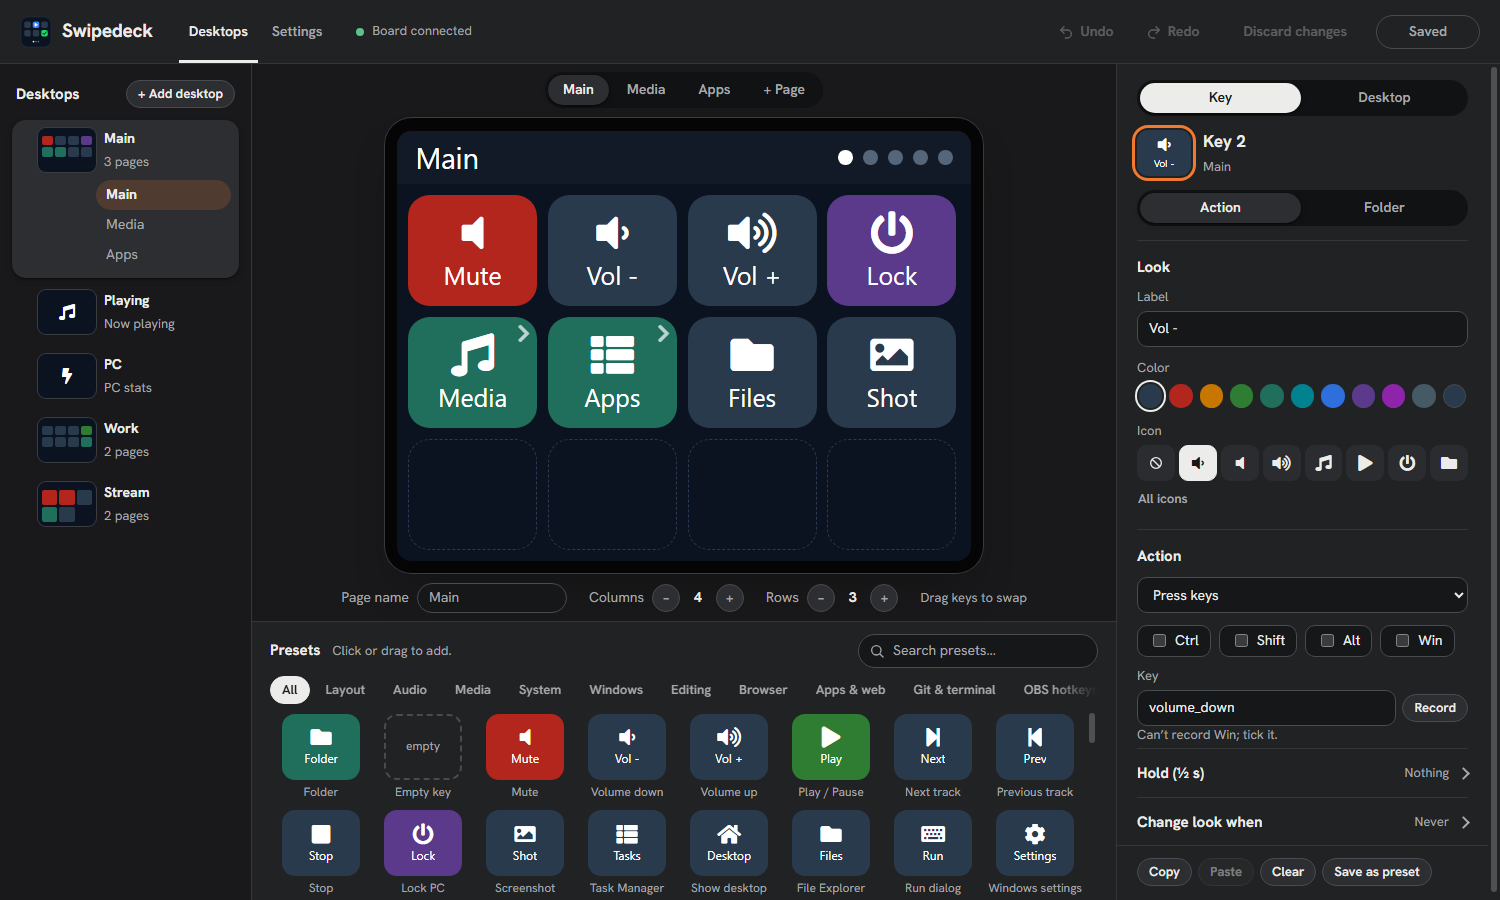
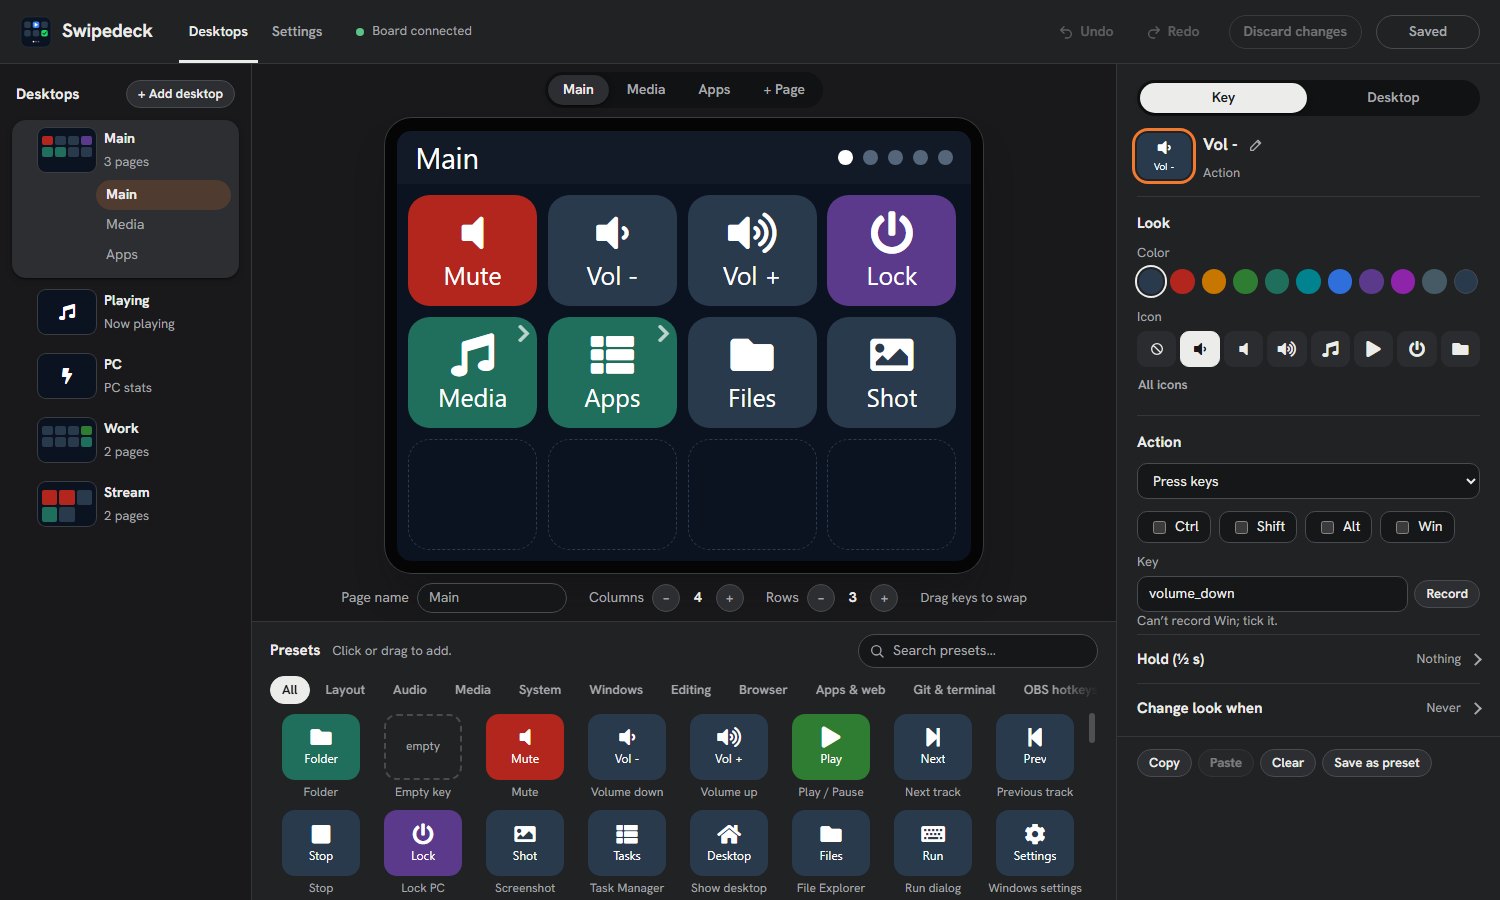
Editor: a simpler key panel and an outlined Discard changes
The panel is headed by the key's name with a pencil to change it, and Action or Folder under it. The key number, page name, label field and the Action / Folder switch are gone; an empty key offers Add action and Add folder.

diff --git a/companion/streamdeck_companion/web/app.js b/companion/streamdeck_companion/web/app.js
@@ -35,7 +35,7 @@ const UI_ICONS = {
   undo: 'M9 14 4 9l5-5M4 9h10a6 6 0 0 1 0 12h-3', redo: 'M15 14l5-5-5-5M20 9H10a6 6 0 0 0 0 12h3',
   up: 'M6 14l6-6 6 6', down: 'M6 10l6 6 6-6', close: 'M6 6l12 12M18 6 6 18',
   trash: 'M4 7h16M10 11v6M14 11v6M6 7l1 13h10l1-13M9 7V4h6v3', search: 'M11 4a7 7 0 1 0 0 14 7 7 0 0 0 0-14zM16.5 16.5 21 21',
-  grip: 'M9 6h.01M15 6h.01M9 12h.01M15 12h.01M9 18h.01M15 18h.01', none: 'M12 4a8 8 0 1 0 0 16 8 8 0 0 0 0-16zM6.3 6.3l11.4 11.4',
+  grip: 'M9 6h.01M15 6h.01M9 12h.01M15 12h.01M9 18h.01M15 18h.01', edit: 'M4 20h4L19 9l-4-4L4 16zM13.5 6.5l4 4', none: 'M12 4a8 8 0 1 0 0 16 8 8 0 0 0 0-16zM6.3 6.3l11.4 11.4',
 };
 function svg(name) {
   const NS = 'http://www.w3.org/2000/svg';
@@ -298,7 +298,7 @@ function renderTopbar() {
     h('div', { class: 'history' },
       h('button', { class: 'quiet', onclick: undo, disabled: !history.canUndo, title: 'Undo (Ctrl+Z)' }, svg('undo'), 'Undo'),
       h('button', { class: 'quiet', onclick: redo, disabled: !history.canRedo, title: 'Redo (Ctrl+Y)' }, svg('redo'), 'Redo')),
-    h('button', { class: 'quiet', onclick: revert, disabled: !isDirty() }, 'Discard changes'),
+    h('button', { class: 'discard', onclick: revert, disabled: !isDirty() }, 'Discard changes'),
     h('button', { class: 'primary', onclick: save, disabled: !isDirty() || state.saving, title: 'Save (Ctrl+S)' },
       isDirty() ? 'Save' : 'Saved'),
   );
@@ -986,23 +986,57 @@ function desktopForm(d) {
     'Names from Task Manager > Details, without .exe.'));
 }
 
+// The top of the key panel: a picture of the key, its name with a pencil to change it, and what kind of key it is.
+function keyHead(k) {
+  const kind = M.keyKind(k);
+  const info = h('div', { class: 'keyname' });
+  const head = h('div', { class: 'keyhead' }, miniKey(k), info);
+  const nameLine = () => h('div', { class: 'nameline' },
+    h('h4', { class: k.label || kind === 'empty' ? '' : 'none' }, kind === 'empty' ? 'Empty key' : k.label || 'No label'),
+    kind === 'empty' ? null : h('button', { class: 'icon', id: 'editName', title: 'Edit label', 'aria-label': 'Edit label', onclick: () => edit() }, svg('edit')));
+  const warning = () => (M.boardCannotShow(k.label) ? h('div', { class: 'hint bad accents' }, 'The board can\u2019t show accents or emoji.') : null);
+  const show = () => {
+    info.replaceChildren(...[nameLine(), kind === 'empty' ? null : h('div', { class: 'sub' }, kind === 'folder' ? 'Folder' : 'Action'), warning()].filter(Boolean));
+  };
+  // The name turns into a box: Enter or leaving it keeps what was typed (already shown on the board), Escape takes it back.
+  const edit = () => {
+    const before = deckText(), steps = history.past.length;
+    let done = false;
+    const box = boardText(k.label || '', (v) => liveEdit(() => { const key = page().keys[state.sel.k]; if (v) key.label = v; else delete key.label; }, 'label'),
+      { maxLength: 10, id: 'keyName', 'aria-label': 'Label' });
+    const input = box.querySelector('input');
+    const finish = (keep) => {
+      if (done) return;
+      done = true;
+      if (!keep && deckText() !== before) { history.past.length = steps; restore(before); return; }
+      show(); // only the head is redrawn: a click that took the focus away still lands on its button
+      head.querySelector('.mini').replaceWith(miniKey(k));
+    };
+    input.addEventListener('keydown', (e) => { if (e.key === 'Enter') finish(true); else if (e.key === 'Escape') finish(false); });
+    input.addEventListener('blur', () => finish(true));
+    input.addEventListener('input', () => head.querySelector('.mini').replaceWith(miniKey(k))); // the little picture follows
+    info.querySelectorAll(':scope > .accents').forEach((el) => el.remove());
+    info.querySelector('.nameline').replaceWith(box);
+    input.focus();
+    input.select();
+  };
+  show();
+  return head;
+}
+
 // The selected key: what it looks like and what it does; the less used parts fold away.
 function keyPanel() {
   const k = keyObj();
   if (state.sel.k === null) return [h('div', { class: 'emptypanel' }, 'Click a key to edit it.')];
   const kk = M.keyKind(k);
-  const parts = [
-    h('div', { class: 'keyhead' }, miniKey(k), h('div', {}, h('h4', {}, `Key ${state.sel.k + 1}`),
-      h('div', { class: 'sub' }, M.pageName(desk(), page())))),
-    h('div', { class: 'seg' }, [['action', 'Action'], ['folder', 'Folder']].map(([v, t]) =>
-      h('button', { class: kk === v ? 'on' : '', 'aria-pressed': String(kk === v), onclick: () => { if (kk !== v) setKeyKind(v); } }, t))),
-  ];
+  const parts = [keyHead(k)];
   if (kk === 'empty') {
-    parts.push(h('div', { class: 'emptypanel' }, 'Pick Action, Folder or a preset.'));
+    parts.push(h('div', { class: 'emptypanel' }, h('p', {}, 'Add one, or pick a preset.'),
+      h('div', { class: 'row' },
+        h('button', { class: 'small', onclick: () => setKeyKind('action') }, 'Add action'),
+        h('button', { class: 'small', onclick: () => setKeyKind('folder') }, 'Add folder'))));
   } else {
-    parts.push(h('section', { class: 'sect' }, h('h5', {}, 'Look'),
-      field('Label', boardText(k.label || '', (v) => liveEdit(() => { const key = page().keys[state.sel.k]; if (v) key.label = v; else delete key.label; }, 'label'), { maxLength: 10 })),
-      colorPicker(k), iconPicker(k)));
+    parts.push(h('section', { class: 'sect' }, h('h5', {}, 'Look'), colorPicker(k), iconPicker(k)));
     if (kk === 'folder') parts.push(h('section', { class: 'sect' }, h('h5', {}, 'Folder'), folderEditor(k)));
     else {
       parts.push(h('section', { class: 'sect' }, h('h5', {}, 'Action'),

diff --git a/companion/streamdeck_companion/web/style.css b/companion/streamdeck_companion/web/style.css
@@ -117,7 +117,8 @@ input[type=color] { width: 34px; height: 30px; padding: 0; border: 0; background
 .pill.off::before { background: var(--warn); }
 .history { display: flex; gap: 2px; }
 #topbar button.primary { min-width: 104px; }
-#topbar button.primary:disabled { background: transparent; border-color: var(--line-2); color: var(--muted); opacity: 1; }
+#topbar button.primary:disabled, #topbar button.discard:disabled { background: transparent; border-color: var(--line-2); color: var(--muted); opacity: 1; }
+#topbar button.discard:disabled { opacity: .6; }
 
 #banner { display: flex; gap: 12px; align-items: center; padding: 10px 20px; background: color-mix(in srgb, var(--bad) 12%, var(--panel)); border-bottom: 1px solid var(--bad); }
 #banner.warn { background: color-mix(in srgb, var(--warn) 14%, var(--panel)); border-color: var(--warn); }
@@ -251,8 +252,15 @@ main.placing .key.empty { border-color: #6d86a6; background: rgba(255, 255, 255,
 .keyhead .mini .ico { font-size: 17px; }
 .keyhead .mini .lbl { font-size: 10px; }
 .keyhead .sub { color: var(--muted); font-size: 13px; }
+.keyname { flex: 1; min-width: 0; }
+.nameline { display: flex; align-items: center; gap: 4px; min-height: 30px; }
+.nameline h4 { overflow: hidden; text-overflow: ellipsis; white-space: nowrap; }
+.nameline h4.none { color: var(--muted); font-weight: 400; }
+.keyname .boardtext input { min-height: 30px; padding: 3px 10px; font-size: 15px; font-weight: 700; }
 .sect { border-top: 1px solid var(--line); padding: 16px 0 4px; }
 .emptypanel { padding: 36px 12px; text-align: center; color: var(--muted); }
+.emptypanel p { margin: 0 0 12px; }
+.emptypanel .row { justify-content: center; }
 .panelfoot { position: sticky; bottom: 0; display: flex; flex-wrap: wrap; gap: 6px; margin: 4px -20px 0; padding: 12px 20px 14px; background: var(--panel); border-top: 1px solid var(--line); }
 .deskform { padding-bottom: 8px; }
 .deskform h4 { margin-bottom: 12px; }

diff --git a/tools/e2e_editor.py b/tools/e2e_editor.py
@@ -131,7 +131,8 @@ window.toasts = () => $$('#toast .toastItem span').map((s) => s.textContent);
 window.toastUndo = () => $$('#toast .toastItem.withUndo button').pop().click();
 window.pageRow = (id) => $$('.pagerow').find((r) => r.dataset.page === id);
 window.rowStep = (which, sign) => btn(sign, document.querySelectorAll('.stepper')[which]).click();
-window.labelInput = () => document.querySelector('#inspector input[maxlength="10"]');
+window.labelInput = () => { if (!document.querySelector('#keyName')) document.querySelector('#editName').click(); return document.querySelector('#keyName'); };
+window.addAction = () => { const b = btn('Add action', document.querySelector('#inspector')); if (b) b.click(); };
 window.press = (key, opts = {}) => document.dispatchEvent(new KeyboardEvent('keydown', { key, bubbles: true, cancelable: true, ...opts }));
 window.setInput = (el, value) => { el.value = value; el.dispatchEvent(new Event('input', { bubbles: true })); };
 window.addApps = (id, text) => { const el = document.querySelector('#' + id); el.focus(); el.value = text; el.dispatchEvent(new Event('change', { bubbles: true })); };
@@ -247,9 +248,23 @@ def main() -> int:
 
         print("editing a key")
         cdp.js("keyAt(0).click()")
-        check("selecting a key shows it in the inspector", cdp.js("$$('#inspector h4').pop().textContent") == "Key 1")
-        check("label field has the key's label", cdp.js("[...document.querySelectorAll('#inspector input[type=text]')].some((i) => i.value === 'Mute')"))
-        cdp.js("setInput([...document.querySelectorAll('#inspector input[type=text]')].find((i) => i.value === 'Mute'), 'Silence')")
+        check("selecting a key shows it in the inspector, under its name", cdp.js("document.querySelector('.keyhead h4').textContent") == "Mute"
+              and cdp.js("document.querySelector('.keyhead .sub').textContent") == "Action")
+        check("there is no key number, no label field and no Action / Folder switch", cdp.js("!document.querySelector('#panel').textContent.includes('Key 1')")
+              and cdp.js("!document.querySelector('#panel input[maxlength=\\'10\\']') && !btn('Action', document.querySelector('#panel')) && !btn('Folder', document.querySelector('#panel'))"))
+        cdp.js("document.querySelector('#editName').click()")
+        check("the pencil turns the name into a box that has it", cdp.js("document.activeElement.id === 'keyName' && document.activeElement.value === 'Mute'"))
+        cdp.js("setInput(document.querySelector('#keyName'), 'Scrap')")
+        cdp.js("document.querySelector('#keyName').dispatchEvent(new KeyboardEvent('keydown', { key: 'Escape', bubbles: true }))")
+        check("Escape takes the typing back, leaving nothing to save", cdp.js("keyLabel(0)") == "Mute" and cdp.js("btn('Saved') && btn('Saved').disabled")
+              and cdp.js("document.querySelector('.keyhead h4').textContent") == "Mute")
+        cdp.js("document.querySelector('#editName').click()")
+        cdp.js("setInput(document.querySelector('#keyName'), 'Silence')")
+        check("the little picture follows the typing", cdp.js("document.querySelector('.keyhead .mini .lbl').textContent") == "Silence")
+        cdp.js("document.querySelector('#keyName').dispatchEvent(new KeyboardEvent('keydown', { key: 'Enter', bubbles: true }))")
+        check("Enter keeps it, in the name and the little picture", cdp.js("document.querySelector('.keyhead h4').textContent") == "Silence"
+              and cdp.js("document.querySelector('.keyhead .mini .lbl').textContent") == "Silence" and cdp.js("!document.querySelector('#keyName')"))
+        check("Discard changes is outlined and usable", cdp.js("getComputedStyle(btn('Discard changes')).borderTopColor !== 'rgba(0, 0, 0, 0)' && !btn('Discard changes').disabled"))
         check("typing updates the preview live", cdp.js("keyLabel(0)") == "Silence")
         check("unsaved changes enable Save", cdp.js("btn('Save') && !btn('Save').disabled"))
         cdp.js("press('z', { ctrlKey: true })")
@@ -290,11 +305,17 @@ def main() -> int:
         cdp.js("card('Folder').click()")
         check("the Folder preset creates a new page", cdp.js("$$('.pagerow').length") == before_pages + 1)
         check("...and the key shows the folder arrow", cdp.js("!!keyAt(10).querySelector('.arrow')"))
-        cdp.js("btn('Action', document.querySelector('#inspector')).click()")
-        check("switching a folder key to Action gives it an action", cdp.js("keyAt(10).title.startsWith('press')"))
-        check("there is no separate Empty tab", cdp.js("!btn('Empty', document.querySelector('#inspector'))"))
+        check("a folder key shows the folder settings, and says it is one", cdp.js("document.querySelector('.keyhead .sub').textContent") == "Folder"
+              and cdp.js("!!btn('Open page') && !document.querySelector('#holdSection')"))
         cdp.js("btn('Clear', document.querySelector('#inspector')).click()")
         check("Clear empties the key", cdp.js("keyAt(10).classList.contains('empty')"))
+        check("an empty key offers to add an action or a folder", cdp.js("!!btn('Add action') && !!btn('Add folder') && !document.querySelector('#editName')"))
+        cdp.js("btn('Add folder').click()")
+        check("Add folder makes a folder key", cdp.js("keyAt(10).classList.contains('folder')"))
+        cdp.js("btn('Clear', document.querySelector('#inspector')).click()")
+        cdp.js("addAction()")
+        check("Add action makes an action key", cdp.js("keyAt(10).title.startsWith('press')") and cdp.js("document.querySelector('.keyhead .sub').textContent") == "Action")
+        cdp.js("btn('Clear', document.querySelector('#inspector')).click()")
         check("an empty key offers no Save as preset", cdp.js("!btn('Save as preset')"))
 
         print("grid size")
@@ -579,7 +600,7 @@ def main() -> int:
         print("http and obs actions")
         cdp.js("window.actionSelect = () => [...document.querySelectorAll('#inspector select')].find((s) => [...s.options].some((o) => o.textContent === 'Send web request'))")
         cdp.js("keyAt(8).click()")
-        cdp.js("btn('Action', document.querySelector('#inspector')).click()")
+        cdp.js("addAction()")
         types = cdp.js("[...actionSelect().options].map((o) => o.textContent)")
         check("the action list offers the web request and OBS", "Send web request" in types and "Control OBS" in types, str(types))
         cdp.js("setSelect(actionSelect(), 'http')")
@@ -597,14 +618,14 @@ def main() -> int:
         check("the tooltip of the key shows the request without any query", cdp.js("keyAt(8).title") == "POST http://homeassistant.local:8123/api/services/light/toggle", cdp.js("keyAt(8).title"))
 
         cdp.js("keyAt(9).click()")
-        cdp.js("btn('Action', document.querySelector('#inspector')).click()")
+        cdp.js("addAction()")
         cdp.js("setSelect(actionSelect(), 'obs')")
         check("an OBS action starts as 'start / stop recording' with no parameter", cdp.js("document.querySelector('#obsRequest').value") == "ToggleRecord" and cdp.js("!document.querySelector('#obsField')"))
         cdp.js("setSelect(document.querySelector('#obsRequest'), 'SetCurrentProgramScene')")
         check("switching scene asks for the scene name", cdp.js("!!document.querySelector('#obsField')"))
         cdp.js("setInput(document.querySelector('#obsField'), 'Game')")
         cdp.js("keyAt(10).click()")
-        cdp.js("btn('Action', document.querySelector('#inspector')).click()")
+        cdp.js("addAction()")
         cdp.js("setSelect(actionSelect(), 'obs')")
         cdp.js("setSelect(document.querySelector('#obsRequest'), '__other')")
         check("'another request' lets you type its name", cdp.js("document.querySelector('#obsRequestName').value") == "GetVersion")
@@ -830,8 +851,11 @@ def main() -> int:
         cdp.js("setInput(labelInput(), 'Niño')")
         warning = "labelInput().parentElement.querySelector('.accents').hidden"
         check("a label with an accent warns that the board cannot show it", cdp.js(warning) is False)
+        cdp.js("document.querySelector('#keyName').blur()")
+        check("...and keeps warning under the name", cdp.js("!!document.querySelector('.keyname .accents')"))
         cdp.js("setInput(labelInput(), 'Lock')")
         check("...and a plain one does not", cdp.js(warning) is True)
+        cdp.js("document.querySelector('#keyName').blur()")
         cdp.js("window.actionSelect = () => [...document.querySelectorAll('#inspector select')].find((s) => [...s.options].some((o) => o.textContent === 'Type text'))")
         cdp.js("setSelect(actionSelect(), 'text')")
         cdp.js("setInput(document.querySelector('#inspector textarea'), '')")

diff --git a/DESIGN.md b/DESIGN.md
@@ -110,7 +110,7 @@ use Segoe UI, as before, so they do not change with the shell.
 
 ### Hierarchy
 - **Headline** (700, 24px): the Settings page.
-- **Title** (700, 17px): the panel's subject ("Key 2", "Desktop").
+- **Title** (700, 17px): the panel's subject (the key's name, "Desktop").
 - **Section** (700, 15px): Look, Action, Presets, Desktops.
 - **Body** (400, 14px). **Label** (400, 13px, muted): field names and hints.
 
@@ -132,7 +132,8 @@ Pills for buttons, switches, chips and messages; 10px fields; 16px cards and men
 ## Components
 
 ### Buttons
-Pill, 34px (28px small). Quiet variant for history and secondary actions, icon variant for rows. Icons are authored SVG
+Pill, 34px (28px small). Quiet variant for history and secondary actions, icon variant for rows. Discard changes is
+outlined, next to the filled Save. Icons are authored SVG
 on a 24px grid with a 2px round stroke; the board's own icons come from its font.
 
 ### Switches
@@ -144,6 +145,10 @@ White (near-black in dark) with a hairline; focus is a 2px orange outline.
 ### Navigation
 Top-bar tabs underlined in graphite. Desktops are listed with a picture of their screen; their pages appear under the
 selected one and as tabs above the board. Row actions appear on hover or keyboard focus.
+
+### Key head
+A picture of the key, its name with a pencil that turns it into a box, and "Action" or "Folder" under it. No key number,
+no page name, no switch between the two kinds: an empty key offers to add either one.
 
 ### Folding sections
 Less used parts (Hold, Change look when) are folded and say their current value while closed.

diff --git a/README.md b/README.md
@@ -111,7 +111,7 @@ The companion serves a layout editor at **http://127.0.0.1:8765/** (`Streamdeck-
   recording a hotkey.
 * **Undo instead of questions:** deleting a desktop, a page or a saved preset, shrinking the grid, replacing a key with a
   preset and discarding changes happen at once, and a message at the bottom offers **Undo** for 10 seconds.
-* **Per key:** label, icon (a short row, or **All icons** for all 51 board icons), color, and either an action, a folder (opens another page, or creates one)
+* **Per key:** label (the pencil beside its name), icon (a short row, or **All icons** for all 51 board icons), color, and either an action, a folder (opens another page, or creates one)
   or nothing. Actions have forms: a hotkey builder (modifier tick boxes plus a key box, with a **Record** button;
   the Windows key cannot be captured by a browser, so it is a tick box), typed text, open, run, lock, and multi-step
   sequences with waits.
